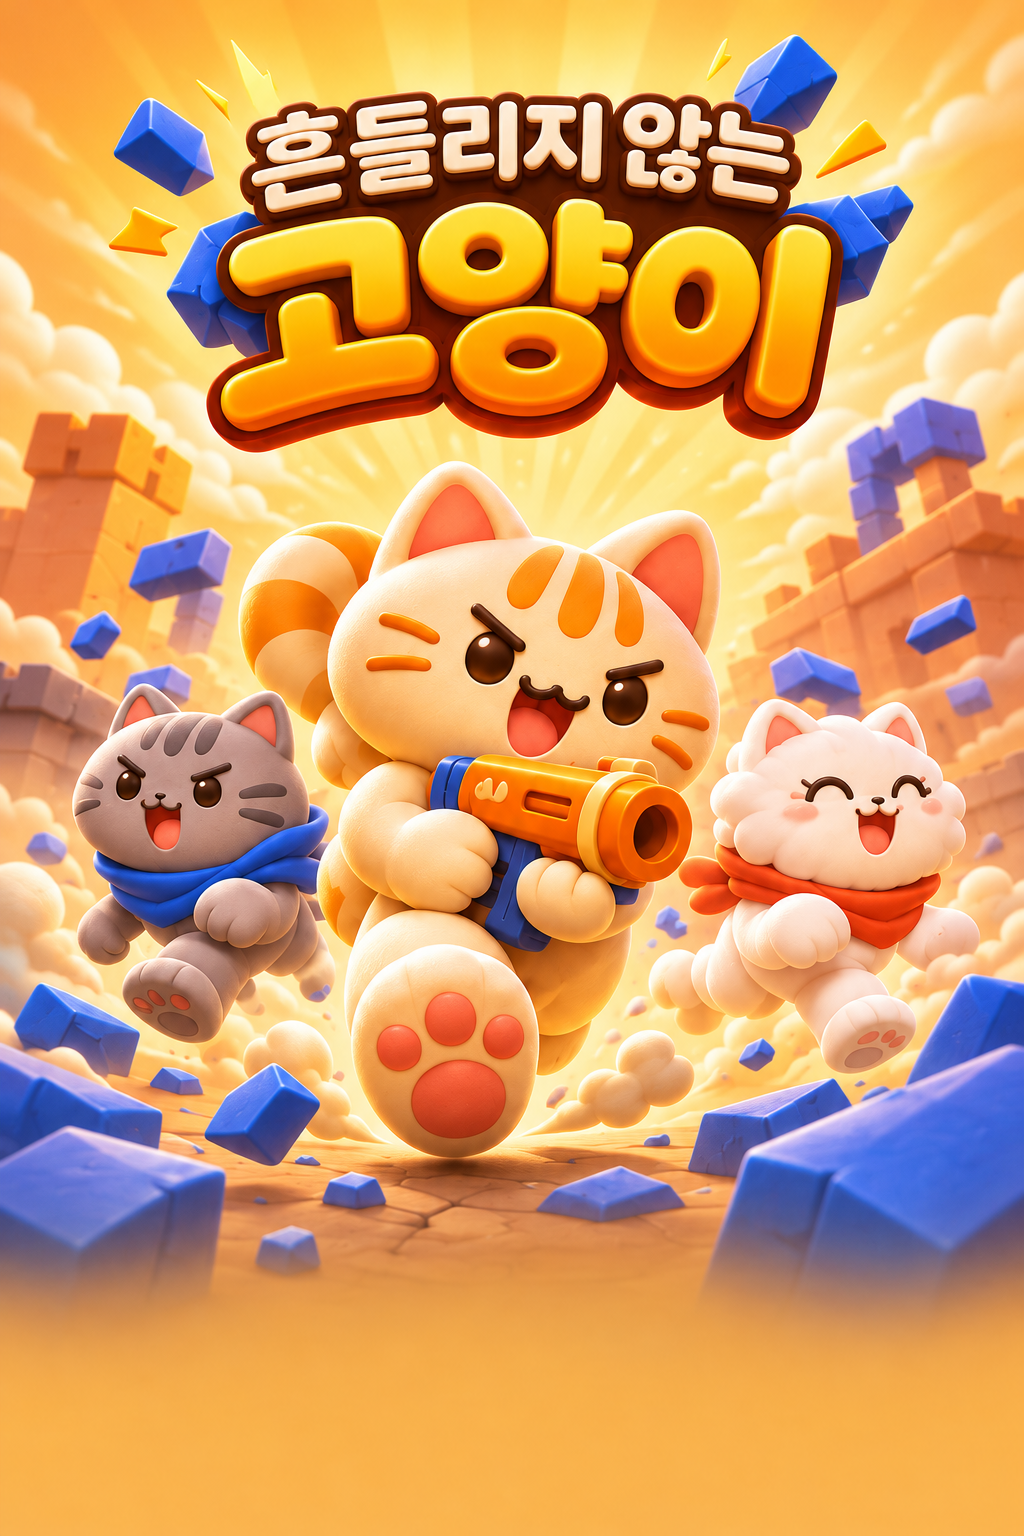
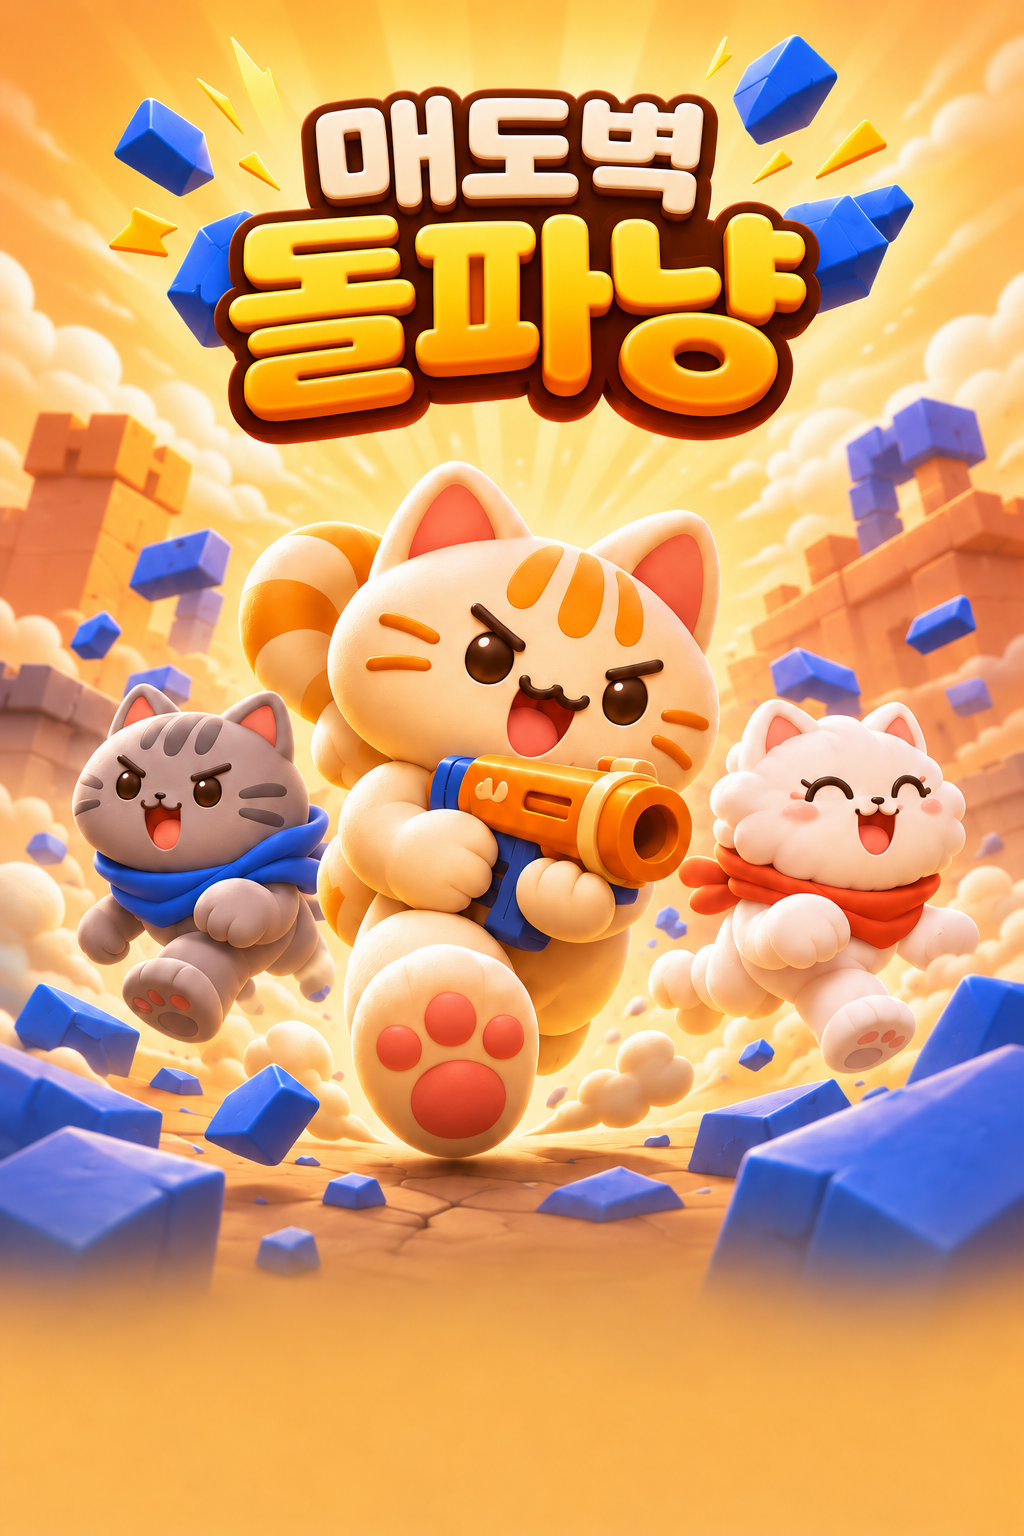
게임 이름과 로딩 로고를 매도벽 돌파냥으로 통일

diff --git a/app/index.html b/app/index.html
@@ -11,14 +11,14 @@
     <meta name="mobile-web-app-capable" content="yes" />
     <link rel="preload" as="image" href="/src/app/assets/loading-squad.png" fetchpriority="high" />
     <link rel="stylesheet" href="/src/app/loading-screen.css" />
-    <title>흔들리지 않는 고양이</title>
+    <title>매도벽 돌파냥</title>
   </head>
   <body>
     <!-- 로딩 화면 (decisions.md 517번): 스크립트가 내려오는 동안 보이고, 앱이 그리면 LoadingScreen으로 바뀐다. -->
     <div id="root">
       <div class="loading-screen" role="status" aria-label="게임을 준비하는 중">
         <div class="loading-screen-body">
-          <h1 class="loading-screen-title">흔들리지 않는 고양이</h1>
+          <h1 class="loading-screen-title">매도벽 돌파냥</h1>
           <div class="loading-screen-hero" aria-hidden="true">
             <img src="/src/app/assets/loading-squad.png" alt="" fetchpriority="high" />
           </div>

diff --git a/app/scripts/appAssets.ts b/app/scripts/appAssets.ts
@@ -55,7 +55,7 @@ const images: Record<string, { size: number; background: string; body: string }>
   'splash.png': {
     size: 2732,
     background: '#fff3df',
-    body: `<div class="center"><div class="tile" style="width:720px;height:720px">${mark(720)}</div><div class="title" style="font-size:120px">흔들리지 않는 고양이</div><div class="sub" style="font-size:58px">멘탈을 지키는 투자 게임</div></div>`,
+    body: `<div class="center"><div class="tile" style="width:720px;height:720px">${mark(720)}</div><div class="title" style="font-size:120px">매도벽 돌파냥</div><div class="sub" style="font-size:58px">멘탈을 지키는 투자 게임</div></div>`,
   },
 }
 images['splash-dark.png'] = images['splash.png']

diff --git a/frontend/vite.config.ts b/frontend/vite.config.ts
@@ -35,8 +35,8 @@ export default defineConfig(({ mode }) => ({
       // 안드로이드 앱 화면(app/)은 /app/ 아래에 같이 배포된다 (decisions.md 309번): 웹의 서비스 워커가 그 주소를 웹 화면으로 바꿔치지 않는다.
       workbox: { navigateFallbackDenylist: [/^\/api\//, /^\/r\//, /^\/ads\.txt$/, /^\/app\//] },
       manifest: {
-        name: '흔들리지 않는 고양이',
-        short_name: '흔들리지 않는 고양이',
+        name: '매도벽 돌파냥',
+        short_name: '매도벽 돌파냥',
         lang: 'ko',
         display: 'standalone',
         orientation: 'portrait',

diff --git a/frontend/e2e/company.spec.ts b/frontend/e2e/company.spec.ts
@@ -25,7 +25,7 @@ async function companyOf(response: APIResponse): Promise<Company> {
 
 test('첫 화면은 게임 이름과 앱 화면으로 가는 게임 시작을 보인다', async ({ page }) => {
   await page.goto('/')
-  await expect(page.getByRole('heading', { name: '흔들리지 않는 고양이' })).toBeVisible()
+  await expect(page.getByRole('heading', { name: '매도벽 돌파냥' })).toBeVisible()
   const start = page.getByRole('link', { name: '게임 시작' })
   await expect(start).toBeVisible()
   await expect(start).toHaveAttribute('href', '/app/')

diff --git a/app/src/app/LoadingScreen.tsx b/app/src/app/LoadingScreen.tsx
@@ -81,9 +81,9 @@ export function LoadingScreen({
     >
       <div className="loading-screen-body">
         <h1 className="loading-screen-title">
-          흔들리지 않는
+          매도벽
           <br />
-          <b>고양이</b>
+          <b>돌파냥</b>
         </h1>
         <div className="loading-screen-hero" aria-hidden="true">
           <img src={loadingSquad} alt="" draggable={false} fetchPriority="high" />

diff --git a/frontend/src/App.tsx b/frontend/src/App.tsx
@@ -14,7 +14,7 @@ export function App() {
   return (
     <main className="mx-auto flex min-h-screen max-w-xl flex-col items-center justify-center gap-5 px-4 py-6 text-center">
       <h1 className="font-pen text-[40px] font-normal leading-tight text-pen">
-        흔들리지 않는 고양이
+        매도벽 돌파냥
       </h1>
       <p className="text-sm text-muted">게임은 앱 화면에서 해요.</p>
       <a

diff --git a/app/capacitor.config.ts b/app/capacitor.config.ts
@@ -9,7 +9,7 @@ const serverUrl = process.env.CAP_SERVER_URL?.trim() ?? 'https://game.kwaklabs.c
 
 const config: CapacitorConfig = {
   appId: 'com.kyunglock.investorgame',
-  appName: '흔들리지 않는 고양이',
+  appName: '매도벽 돌파냥',
   webDir: 'dist',
   server: serverUrl
     ? { url: serverUrl, cleartext: serverUrl.startsWith('http://') }

diff --git a/frontend/index.html b/frontend/index.html
@@ -5,7 +5,7 @@
     <link rel="icon" type="image/svg+xml" href="/favicon.svg" />
     <meta name="viewport" content="width=device-width, initial-scale=1.0" />
     <meta name="theme-color" content="#f3f4f3" />
-    <title>흔들리지 않는 고양이</title>
+    <title>매도벽 돌파냥</title>
   </head>
   <body>
     <div id="root"></div>

diff --git a/app/src/app/toy-city/ToyCityStreet.tsx b/app/src/app/toy-city/ToyCityStreet.tsx
@@ -666,7 +666,7 @@ export function ToyCityStreet({
             fontWeight="800"
             fill="#fff9df"
           >
-            흔들리지 않는 고양이
+            매도벽 돌파냥
           </text>
           {g.positions.map((p, i) => {
             const employee = employees[i]

diff --git a/docs/app.md b/docs/app.md
@@ -4,7 +4,7 @@
 
 ## 1. 무엇인가
 
-- `app/`이 앱 패키지다. `app/src/`가 앱 화면, `app/android/`가 안드로이드 프로젝트, `app/capacitor.config.ts`가 앱 이름(흔들리지 않는 고양이)·패키지(`com.kyunglock.investorgame`)·화면을 어디서 가져올지를 정한다.
+- `app/`이 앱 패키지다. `app/src/`가 앱 화면, `app/android/`가 안드로이드 프로젝트, `app/capacitor.config.ts`가 앱 이름(매도벽 돌파냥)·패키지(`com.kyunglock.investorgame`)·화면을 어디서 가져올지를 정한다.
 - **토이시티 메인** (360번): 파란 지붕·크림색 건물과 고양이가 있는 거리다. 위에는 실제 자본·확장 진행률, 양옆에는 채용·인력 관리·이슈·기록·확장·멘탈, 아래에는 소식·분기 넘기기·팀 분위기가 있다. 메인에 책상·빈 자리·자리 선택 버튼을 그리지 않는다. 실제 배치된 직원만 고양이로 보이고, 채용과 배치는 별도 탭에서 한다. 서버 응답으로 등급이 바뀌면 좌우 라이벌을 번갈아 밀어내며 카메라가 물러나고 건물 전체가 튀어 오르듯 확장된다. 오를 때의 연출(399번, 2.4초)은 다섯 단계다: ① 힘 모으기(0.45초, 건물이 움츠렸다가 옆 건물로 내달린다, 모으는 소리) ② 부딪힘(맞닿은 채 0.1초 멈칫한 뒤 화면 크게 흔들기·흰 번쩍임·충격파 고리·불꽃·벽돌 파편·먼지구름·"쾅!", 쾅 소리와 센 진동) ③ 커지며 밀어내기(탄성 있게 한 번 넘쳤다 돌아오고, 옆 건물은 붕 떠서 빙글 돌며 멀리 날아가고 간판이 떨어지고 창문 조각이 튄다, 땅이 들썩인다, 와르르 소리) ④ 성장 축하(1.05초, 건물 뒤 빛줄기·둘레 반짝이·색종이(FxLayer 캔버스), 새 건물 이름이 크게 떠오르고(같은 건물 안이면 "확장 완료!") 고양이들이 뛴다, 축하 소리와 성공 진동) ⑤ 끝. 단계 시각은 `model.ts moveTimeline`. 효과는 카메라 축척을 되돌려 화면에서 늘 같은 크기로 그리고, 파편·조각은 SVG 요소 마흔 개 남짓이다. 화면을 누르면 끝 모습으로 건너뛰고 아래 버튼은 사무실로 간다. 등급이 내려가면 축하·소리 없이 예전처럼 짧게(1.5초) 끝난다. 확장을 사서 오른 때는 `useCompanyFx`의 등급 오름 팡파르·색종이를 내지 않는다(연출이 맡는다). 공사 기간은 없다(405번): 확장을 사면 곧바로 오르며 연출한다. 그 전에 시작한 공사만 연말 결산서를 닫은 뒤 완공 연출을 한다. 모션 줄이기면 연출 없이 끝 모습만 보인다.
 - **앱의 다른 화면**은 웹 화면과 다르다. 웹(`frontend/`)은 공문서 한 장을 내리며 읽는 꼴이고, 앱은 위에 머리띠(건물·해·분기·자본), 가운데 장면 하나, 아래에 분기 넘기기 버튼과 다섯 탭(사무실·채용·배치·이슈·기록. 기록 탭은 380번에서 뺐다가 398번에서 되살렸다)이다. 바깥은 스크롤하지 않고 장면 안에서만 움직이며, 자리 고르기·자리 카드는 아래에서 올라오는 시트다. 채용은 뽑기·도감으로 나뉘고(직원 합성은 384번에서 뺐다), 뽑으면 카드가 하나씩 뒤집힌다(특급은 금빛으로 떨다가 늦게 열리며 화면이 번쩍이고 색종이가 터진다, 312번). 카드마다 등급 효과("맞히면 13.8배 · 방패")가 보이고, 결과 아래에 가장 높은 사람의 효과가 보인다(387번).
 - **같은 것을 그대로 쓴다.** 앱은 `frontend/src`를 `@web/*`로 불러 API 클라이언트·게임 상태(스토어)·고양이 외형 정보·캐릭터 카드·회의 창(종목)·결산서·분기 실적·튜토리얼을 다시 만들지 않고 쓴다. 규칙은 서버에 있다.

diff --git a/docs/decisions.md b/docs/decisions.md
@@ -2407,3 +2407,11 @@ S는 절반으로 내려가지만 여전히 A의 1.74배이고 관통 넷이 따
 - (알려 둘 것) 수치는 어림이고 실제 기기에서 눈으로 보고 맞춘 것이 아니다. 화면 흔들림이나 확대 같은 더 센 연출은 넣지 않았다.
 
 검증: assault.test.ts(기세의 양), 새 `dashCheck.mjs`(한 방에 부서지는 벽에서 기세가 차고 배경이 빠르게 흐르며 벽이 초당 다섯 개 넘게 깨진다, 느린 벽에서는 기세가 없고 배경이 멈춘다. CI에 더했다), `idleCheck`·`idleHitCheck`·`wallBundleCheck`·`seatOrderCheck`·`powerSaveCheck`를 여기서 돌려 통과.
+
+
+### 609. 게임 이름은 매도벽 돌파냥
+
+사용자: "이제 게임이름은 매도벽 돌파냥이야 다고쳐줘" (2026-11-17).
+
+- 정식 게임 이름을 **매도벽 돌파냥**으로 통일한다. 웹·앱 제목, 로딩 화면, 회사 화면, PWA 설치 이름, 안드로이드 앱 이름과 시작 화면, 현재 문서와 API 제목에 적용한다.
+- 과거 결정의 인용문은 당시 기록으로 남긴다. 패키지 ID·저장소 URL·저장 데이터 키는 이름이 아닌 식별자이므로 유지한다.

diff --git a/app/src/app/assets/README.md b/app/src/app/assets/README.md
@@ -3,3 +3,5 @@
 `loading-squad.png`는 사용자가 선택한 B안(고양이 출동형)을 바탕으로 생성한 전용 그림이다. 앱 아이콘의 치즈 고양이, 회색·흰색 동료, 장난감 총, 파란 벽돌과 게임 제목을 포함한다.
 
 진행률·상태·도움말은 그림에 넣지 않고 `LoadingScreen.tsx`에서 실제 상태로 표시한다. HTML 첫 화면과 React 화면이 같은 자산을 공유하며, 첫 HTML에서 미리 받는다. 전체 그림을 유지해서 작은 화면과 가로 화면에서도 얼굴과 제목이 잘리지 않게 한다.
+
+게임 이름 변경에 따라 그림 속 로고도 **매도벽 돌파냥**으로 교체했다(2026-11-17). 기존 그림을 이미지 편집 도구에 제공하고, 고양이·배경·구도를 유지하며 위쪽은 크림색 `매도벽`, 아래쪽은 금색 `돌파냥`으로 요청했다.
